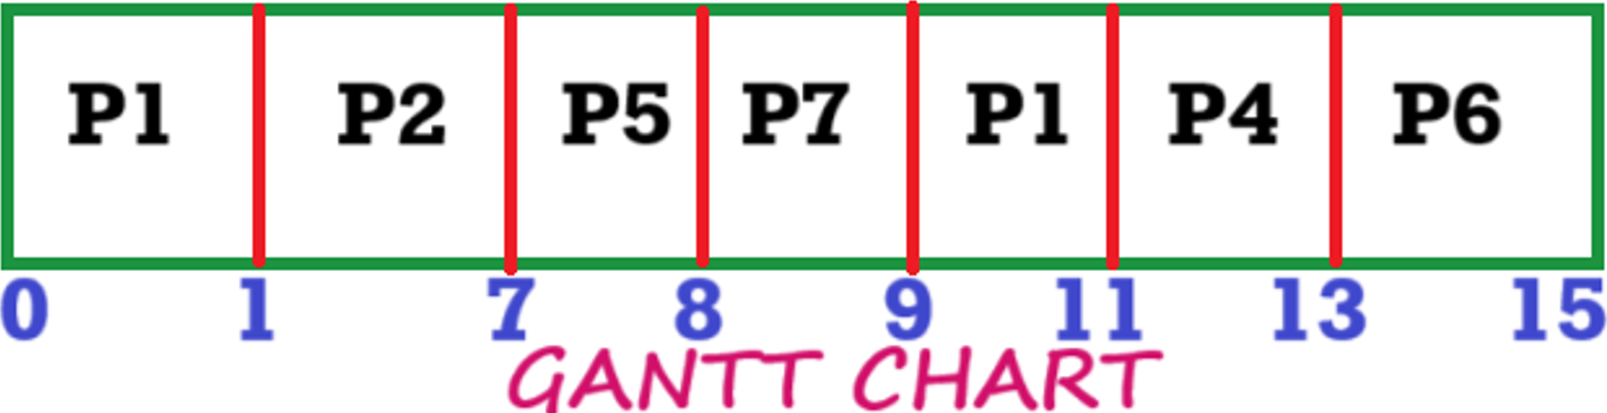
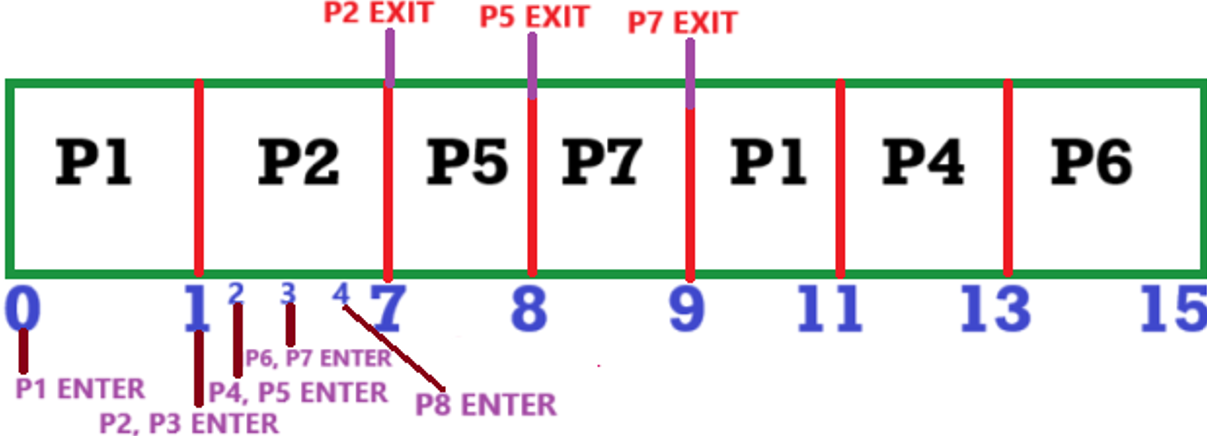
files is updating is updated

Changed region(s): [[0.0, 0.0, 1.0, 1.0]]

diff --git a/os/scheduling_algorithms/MLQS.html b/os/scheduling_algorithms/MLQS.html
@@ -605,7 +605,206 @@
         <div id="question2">
           <div class="question">
             <h2>
-              Question 2 : find the average Turn Around Time and Waiting Time of
+              Question 2: Consider following process, with the cpu burst time
+              given in milliseconds
+            </h2>
+            <table border="1" class="table table-bordered">
+              <tr>
+                <th>Process</th>
+                <th>Arrival Time</th>
+                <th>Burst Time</th>
+                <th>Queue name</th>
+                <th>Priority</th>
+              </tr>
+              <tr>
+                <td>P1</td>
+                <td>4</td>
+                <td>0.0</td>
+                <td>2</td>
+                <td>5</td>
+              </tr>
+              <tr>
+                <td>P2</td>
+                <td>2</td>
+                <td>2.0</td>
+                <td>1</td>
+                <td>----</td>
+              </tr>
+              <tr>
+                <td>P3</td>
+                <td>5</td>
+                <td>3.0</td>
+                <td>3</td>
+                <td>----</td>
+              </tr>
+              <tr>
+                <td>P4</td>
+                <td>1</td>
+                <td>4.0</td>
+                <td>2</td>
+                <td>10</td>
+              </tr>
+              <tr>
+                <td>P5</td>
+                <td>3</td>
+                <td>5.0</td>
+                <td>1</td>
+                <td>----</td>
+              </tr>
+              <tr>
+                <td>P6</td>
+                <td>6</td>
+                <td>6.0</td>
+                <td>2</td>
+                <td>2</td>
+              </tr>
+              <tr>
+                <td>P7</td>
+                <td>4</td>
+                <td>8</td>
+                <td>1</td>
+                <td>----</td>
+              </tr>
+              <tr>
+                <td>P8</td>
+                <td>2</td>
+                <td>10.0</td>
+                <td>2</td>
+                <td>1</td>
+              </tr>
+              <tr>
+                <td>P9</td>
+                <td>7</td>
+                <td>12.0</td>
+                <td>1</td>
+                <td>----</td>
+              </tr>
+              <tr>
+                <td>P10</td>
+                <td>3</td>
+                <td>12.0</td>
+                <td>2</td>
+                <td>1</td>
+              </tr>
+            </table>
+            <h2>
+              The system has three queues, first queue is having the highest
+              priority with <a href="fcfs.html">FCFS scheduling</a>, seconf
+              queue is having the middle priority with
+              <a href="ps1.html">priority scheduling</a> (1 is highest and 100
+              is lowest priority) and, third queue is having the lowest priority
+              with <a href="RR1.html">Round Robin scheduling</a>(T.S = 3). Draw
+              gantt charts to show execution using Multi Level Queue Scheduling
+              (MLQ). Also determine the process turnAround time and Waiting
+              time.
+            </h2>
+          </div>
+
+          <div class="solution">
+            <h3>Solution:</h3>
+            <h4>Formula:</h4>
+            <p>Turnaround Time (TAT) = Completion Time - Arrival Time</p>
+            <p>Waiting Time (WT) = Turnaround Time - Burst Time</p>
+
+            <h4>Gantt Chart</h4>
+            <img
+              alt="MULTILEVEL QUEUE SCHEDULING (MLQ) | Question 1 Solution | Gantt Chart part 1"
+              title="MULTILEVEL QUEUE SCHEDULING (MLQ) | Question 1 Solution | Gantt Chart part 1"
+              id="MLQS1_1"
+              srcset=""
+              data-src-mobile="/assets/MLQ/mlqs_mob_q1_1.png"
+              data-src-desktop="/assets/MLQ/mlqs_comp_q1_1.png"
+            />
+            <img
+              alt="MULTILEVEL QUEUE SCHEDULING (MLQ) | Question 1 Solution | Gantt Chart part 2"
+              title="MULTILEVEL QUEUE SCHEDULING (MLQ) | Question 1 Solution | Gantt Chart part 2"
+              id="MLQS1_2"
+              srcset=""
+              data-src-mobile="/assets/MLQ/mlqs_mob_q1_2.png"
+              data-src-desktop="/assets/MLQ/mlqs_mob_q1_2.png"
+            />
+
+            <h4>Calculations:</h4>
+            <table border="1" class="table table-bordered">
+              <tr>
+                <th>Process</th>
+                <th>Completion Time</th>
+                <th>Turnaround Time (TAT)</th>
+                <th>Waiting Time (WT)</th>
+              </tr>
+              <tr>
+                <td>P1</td>
+                <td>31</td>
+                <td>31-0 = 31</td>
+                <td>31 - 4 = 27</td>
+              </tr>
+              <tr>
+                <td>P2</td>
+                <td>4</td>
+                <td>4 - 2 = 2</td>
+                <td>2 - 2 = 0 </td>
+              </tr>
+              <tr>
+                <td>P3</td>
+                <td>37 </td>
+                <td>37 - 3 = 34</td>
+                <td>34 - 5 = 29</td>
+              </tr>
+              <tr>
+                <td>P4</td>
+                <td>32 </td>
+                <td>32 - 4 = 28 </td>
+                <td>28 - 1 = 27</td>
+              </tr>
+              <tr>
+                <td>P5</td>
+                <td>8</td>
+                <td>8 - 5 = 3</td>
+                <td>3 - 3 = 0</td>
+              </tr>
+              <tr>
+                <td>P6</td>
+                <td>30</td>
+                <td>30 - 6 = 24 </td>
+                <td>24 - 6 =  18 </td>
+              </tr>
+              <tr>
+                <td>P7</td>
+                <td>12</td>
+                <td>12 - 8 =  4</td>
+                <td>4 - 4 = 0</td>
+              </tr>
+              <tr>
+                <td>P8</td>
+                <td>21 </td>
+                <td>21 - 10 = 11</td>
+                <td>11 - 2 = 9</td>
+              </tr>
+              <tr>
+                <td>P9</td>
+                <td>19</td>
+                <td>19 - 12 = 7</td>
+                <td>7 - 7 = 0</td>
+              </tr>
+              <tr>
+                <td>P10</td>
+                <td>24 </td>
+                <td>24 - 12 = 12</td>
+                <td>12 - 3 = 9</td>
+              </tr>
+            </table>
+
+            <h4>Average Turnaround Time:</h4>
+            <p>(25 + 6 + 28 + 18 + 6 + 19 + 6 + 13) / 8 = 15.125</p>
+
+            <h4>Average Waiting Time:</h4>
+            <p>(17 + 0 + 24 + 15 + 5 + 15 + 5 + 11) / 8 = 11.5</p>
+          </div>
+        </div>
+        <div id="question3">
+          <div class="question">
+            <h2>
+              Question 3 : find the average Turn Around Time and Waiting Time of
               following processes using MULTILEVEL QUEUE Scheduling (MLQ)
               algorithm? Consider the following processes with their Arrival
               Time, Burst Time. Question criteria : <br />
@@ -695,16 +894,16 @@
             title="MULTILEVEL QUEUE SCHEDULING (MLQ) | Question 2 Solution | Gantt Chart part 1"
             id="MLQS2_1"
             srcset=""
-            data-src-mobile="/assets/MLQ/mlqs_mob_q2_1.png"
-            data-src-desktop="/assets/MLQ/mlqs_comp_q2_1.png"
+            data-src-mobile="/assets/MLQ/mlqs_mob_q3_1.png"
+            data-src-desktop="/assets/MLQ/mlqs_comp_q3_1.png"
           />
           <img
             alt="MULTILEVEL QUEUE SCHEDULING (MLQ) | Question 2 Solution | Gantt Chart part 2MULTILEVEL QUEUE SCHEDULING (MLQ) | Question 3 Solution | Gantt Chart"
             title="MULTILEVEL QUEUE SCHEDULING (MLQ) | Question 2 Solution | Gantt Chart part 2MULTILEVEL QUEUE SCHEDULING (MLQ) | Question 3 Solution | Gantt Chart"
             id="MLQS2_2"
             srcset=""
-            data-src-mobile="/assets/MLQ/mlqs_mob_q2_2.png"
-            data-src-desktop="/assets/MLQ/mlqs_comp_q2_2.png"
+            data-src-mobile="/assets/MLQ/mlqs_mob_q3_2.png"
+            data-src-desktop="/assets/MLQ/mlqs_comp_q3_2.png"
           />
           <h4>Calculations:</h4>
           <table border="1" class="table table-bordered">
@@ -772,7 +971,7 @@
         <div id="question3">
           <div class="question">
             <h2>
-              Question 3 : find the average Turn Around Time and Waiting Time of
+              Question 4 : find the average Turn Around Time and Waiting Time of
               following processes using MULTILEVEL QUEUE Scheduling (MLQ)
               algorithm? Consider the following processes with their Arrival
               Time, Burst Time. Question criteria : <br />
@@ -874,24 +1073,24 @@
               title="MULTILEVEL QUEUE SCHEDULING (MLQ) | Question 3 Solution | Gantt Chart part 1"
               id="MLQS3_1"
               srcset=""
-              data-src-mobile="/assets/MLQ/mlqs_mob_q3_1.png"
-              data-src-desktop="/assets/MLQ/mlqs_comp_q3_1.png"
+              data-src-mobile="/assets/MLQ/mlqs_mob_q4_1.png"
+              data-src-desktop="/assets/MLQ/mlqs_comp_q4_1.png"
             />
             <img
               alt="MULTILEVEL QUEUE SCHEDULING (MLQ) | Question 3 Solution | Gantt Chart part 2"
               title="MULTILEVEL QUEUE SCHEDULING (MLQ) | Question 3 Solution | Gantt Chart part 2"
               id="MLQS3_2"
               srcset=""
-              data-src-mobile="/assets/MLQ/mlqs_mob_q3_2.png"
-              data-src-desktop="/assets/MLQ/mlqs_comp_q3_2.png"
+              data-src-mobile="/assets/MLQ/mlqs_mob_q4_2.png"
+              data-src-desktop="/assets/MLQ/mlqs_comp_q4_2.png"
             />
             <img
               alt="MULTILEVEL QUEUE SCHEDULING (MLQ) | Question 3 Solution | Gantt Chart part 2"
               title="MULTILEVEL QUEUE SCHEDULING (MLQ) | Question 3 Solution | Gantt Chart part 2"
               id="MLQS3_3"
               srcset=""
-              data-src-mobile="/assets/MLQ/mlqs_mob_q3_3.png"
-              data-src-desktop="/assets/MLQ/mlqs_comp_q3_3.png"
+              data-src-mobile="/assets/MLQ/mlqs_mob_q4_3.png"
+              data-src-desktop="/assets/MLQ/mlqs_comp_q4_3.png"
             />
 
             <h4>Calculations:</h4>

diff --git a/os/scheduling_algorithms/Scheduling_Alorithms_topic.html b/os/scheduling_algorithms/Scheduling_Alorithms_topic.html
@@ -78,7 +78,7 @@
           }
         },
         "datePublished": "2024-12-28",
-        "dateModified": "2024-12-30",
+        "dateModified": "2025-01-16",
         "keywords": "Scheduling Algorithms, Operating Systems, OS Scheduling, CPU Scheduling, Scheduling Algorithms Questions, Operating System Questions and Answers",
         "hasPart": [
           {
@@ -135,8 +135,7 @@
           }
         ]
       }
-      </script>
-      
+    </script>
   </head>
 
   <body>
@@ -147,7 +146,7 @@
       <div class="row">
         <div class="card bg-info" style="width: 18rem">
           <div class="card-body">
-            <h5 class="card-title">FCFS (FIRST COME FIRST SERVE) scheduling</h5>
+            <h5 class="card-title">FIRST COME FIRST SERVE scheduling (FCFS)</h5>
             <p class="card-text">
               scheduling related questions are given and solution with Gantt
               charts, average turnaround time (TAT), and average waiting time
@@ -158,7 +157,7 @@
         </div>
         <div class="card bg-danger text-white" style="width: 18rem">
           <div class="card-body">
-            <h5 class="card-title">SJF (SHORTEST JOB FIRST)</h5>
+            <h5 class="card-title">SHORTEST JOB FIRST (SJF)</h5>
             <p class="card-text">
               SJF scheduling premptive and non-premptive questions are given and
               solution with Gantt charts, average turnaround time (TAT), and
@@ -169,7 +168,7 @@
         </div>
         <div class="card bg-warning" style="width: 18rem">
           <div class="card-body">
-            <h5 class="card-title">PS(PRIORITY SCHEDULING)</h5>
+            <h5 class="card-title">PRIORITY SCHEDULING (PS)</h5>
             <p class="card-text">
               Priority Scheduling premptive and non-premptive questions are
               given and solution with Gantt charts, average turnaround time
@@ -180,23 +179,23 @@
         </div>
         <div class="card bg-dark text-white" style="width: 18rem">
           <div class="card-body">
-            <h5 class="card-title">RR(ROUND ROBIN)</h5>
+            <h5 class="card-title">ROUND ROBIN Scheduling (RR)</h5>
             <p class="card-text">
-              questions are given with different time stamp like 1, 2, 3, 4 and solution with Gantt charts, average
-              turnaround time (TAT), and average waiting time (WT). 
+              questions are given with different time stamp like 1, 2, 3, 4 and
+              solution with Gantt charts, average turnaround time (TAT), and
+              average waiting time (WT).
             </p>
             <a href="RR1.html" class="btn btn-success">Practice Here</a>
           </div>
         </div>
 
         <div
-          class="card" id="mlqs"
+          class="card"
+          id="mlqs"
           style="width: 18rem; background-color: rgb(80, 236, 119)"
         >
           <div class="card-body">
-            <h5 class="card-title">
-              MLQS(MULTILEVEL QUEUE SCHDULING) scheduling
-            </h5>
+            <h5 class="card-title">MULTILEVEL QUEUE Scheduling (MLQ)</h5>
             <p class="card-text">
               scheduling related questions are given and solution with Gantt
               charts, average turnaround time (TAT), and average waiting time
@@ -208,7 +207,7 @@
         <div class="card" id="CCD364" style="width: 18rem">
           <div class="card-body">
             <h5 class="card-title">
-              MLFQS(MULTILEVEL FEEDBACK QUEUE SCHDULING) scheduling
+              MULTILEVEL FEEDBACK QUEUE Scheduling (MLFQ)
             </h5>
             <p class="card-text">
               scheduling related questions are given and solution with Gantt
